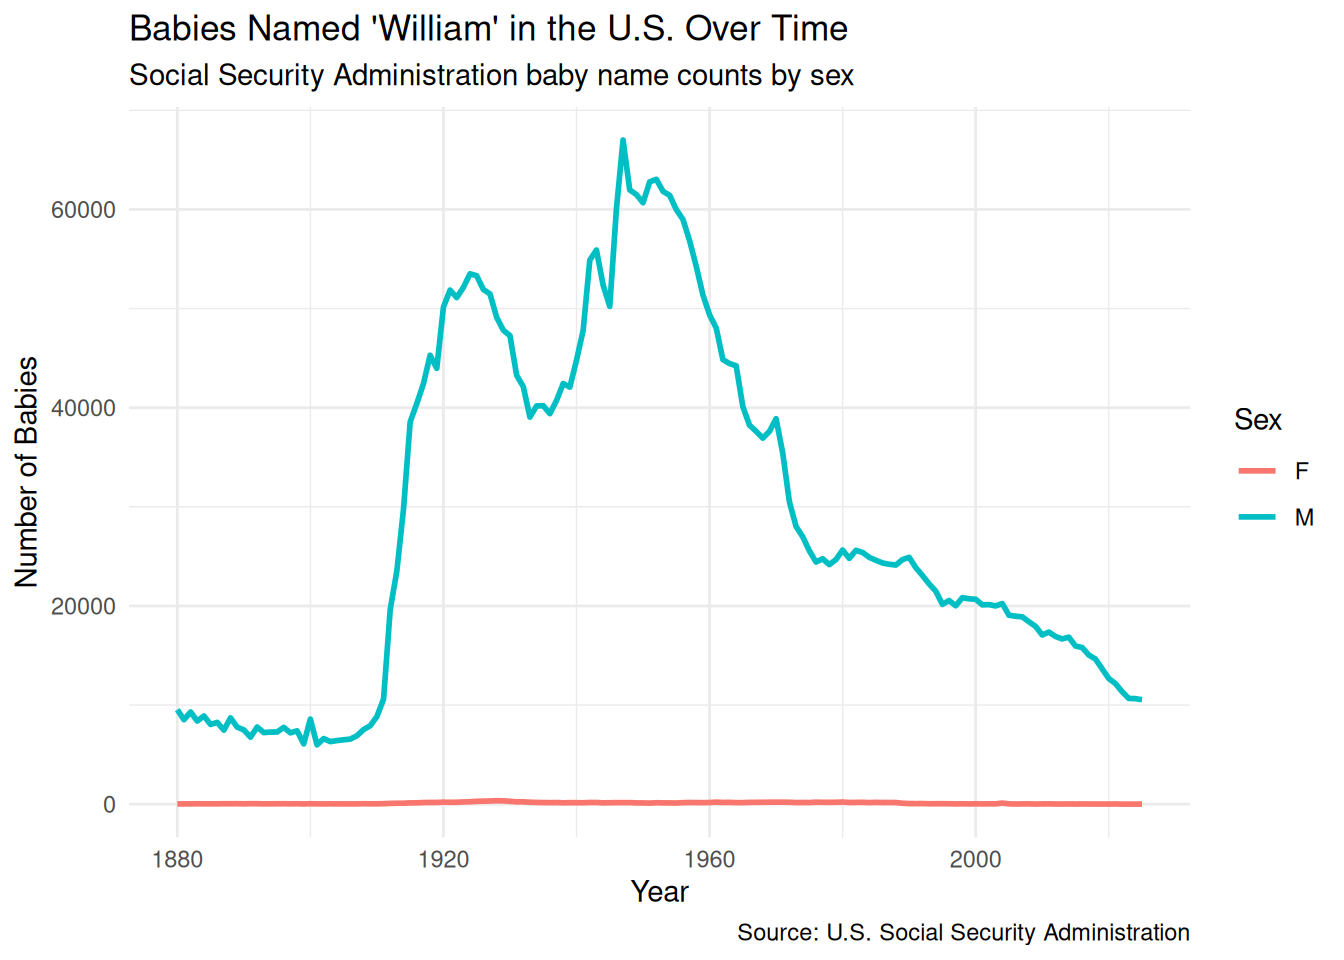
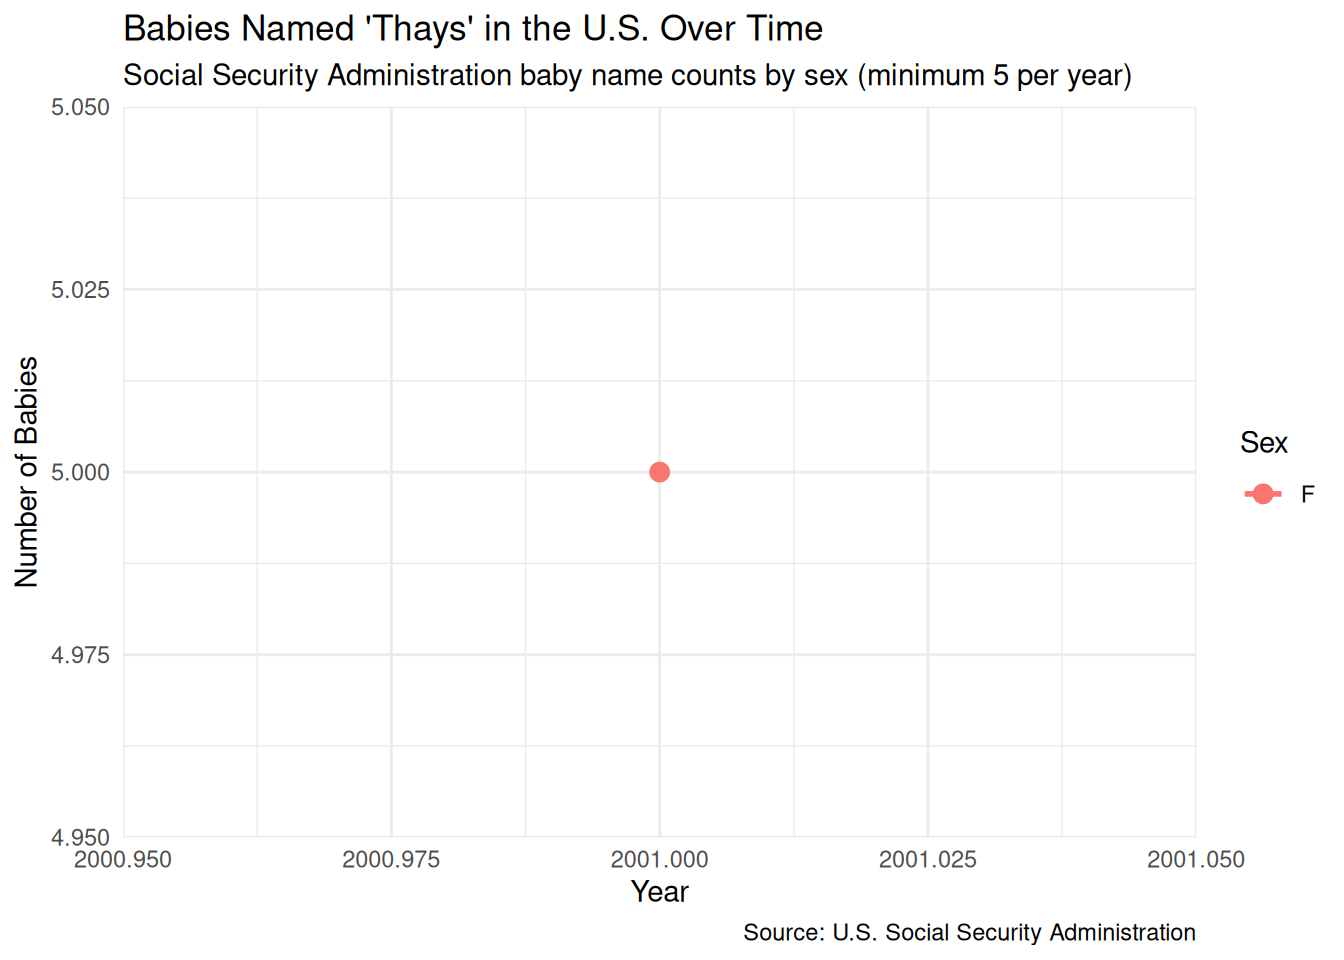
Built site for gh-pages

diff --git a/analysis.html b/analysis.html
@@ -7,7 +7,7 @@
 <meta name="viewport" content="width=device-width, initial-scale=1.0, user-scalable=yes">
 
 
-<title>Popularity of the Name William Over Time</title>
+<title>Popularity of the Name Thays Over Time</title>
 <style>
 /* Default styles provided by pandoc.
 ** See https://pandoc.org/MANUAL.html#variables-for-html for config info.
@@ -52,7 +52,7 @@ ul.task-list li input[type="checkbox"] {
 
 <header id="title-block-header" class="quarto-title-block default">
 <div class="quarto-title">
-<h1 class="title">Popularity of the Name William Over Time</h1>
+<h1 class="title">Popularity of the Name Thays Over Time</h1>
 </div>
 
 

diff --git a/index.html b/index.html
@@ -7,7 +7,7 @@
 <meta name="viewport" content="width=device-width, initial-scale=1.0, user-scalable=yes">
 
 
-<title>Popularity of the Name William Over Time</title>
+<title>Popularity of the Name Thays Over Time</title>
 <style>
 /* Default styles provided by pandoc.
 ** See https://pandoc.org/MANUAL.html#variables-for-html for config info.
@@ -52,7 +52,7 @@ ul.task-list li input[type="checkbox"] {
 
 <header id="title-block-header" class="quarto-title-block default">
 <div class="quarto-title">
-<h1 class="title">Popularity of the Name William Over Time</h1>
+<h1 class="title">Popularity of the Name Thays Over Time</h1>
 </div>
 
 
